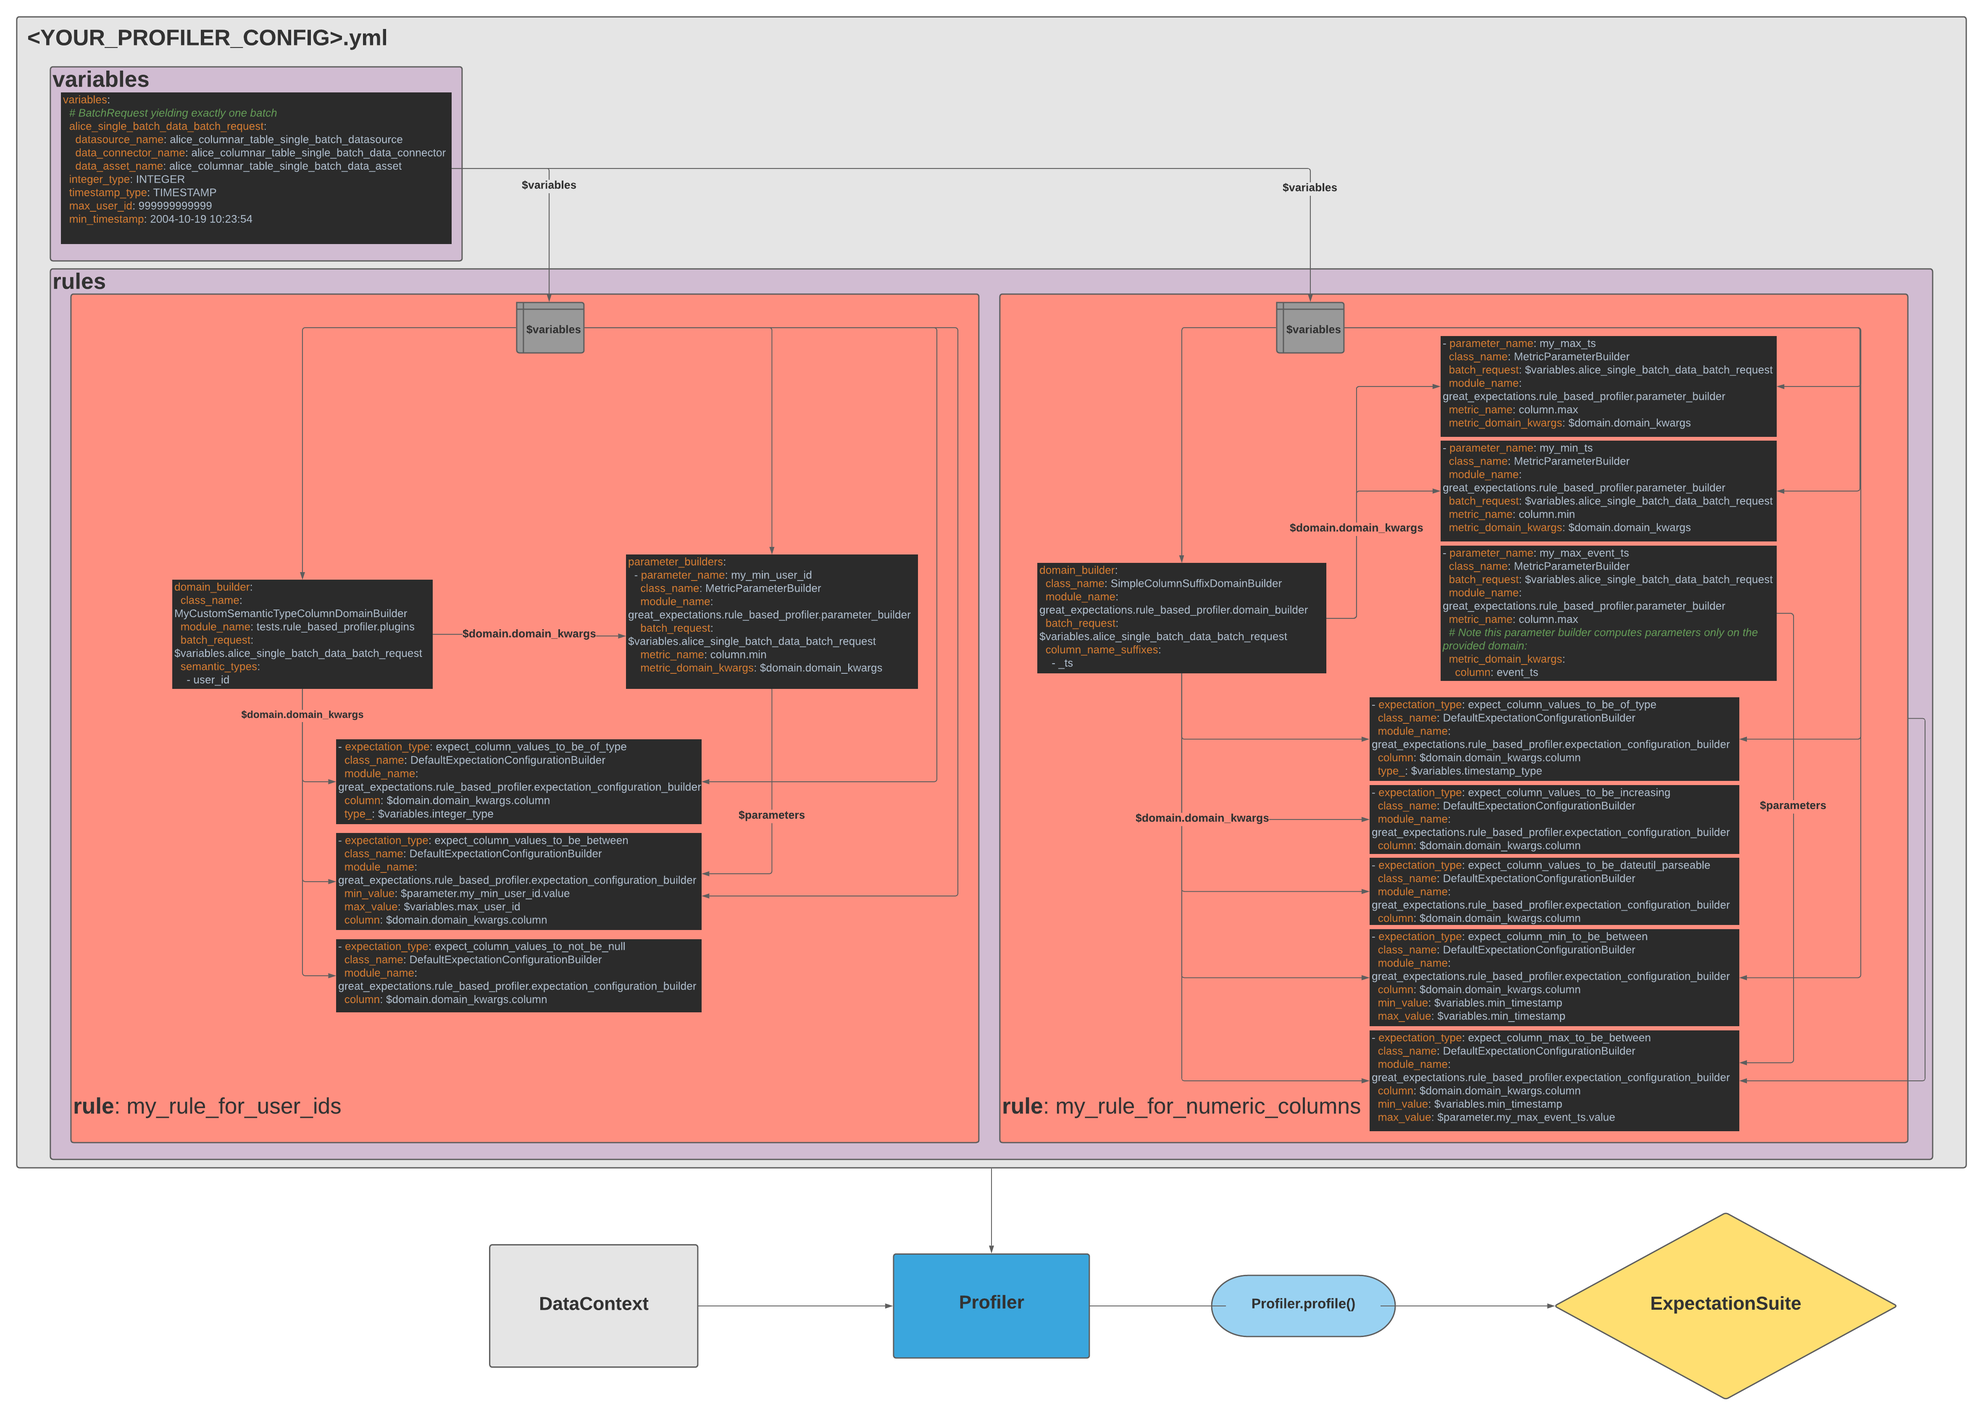
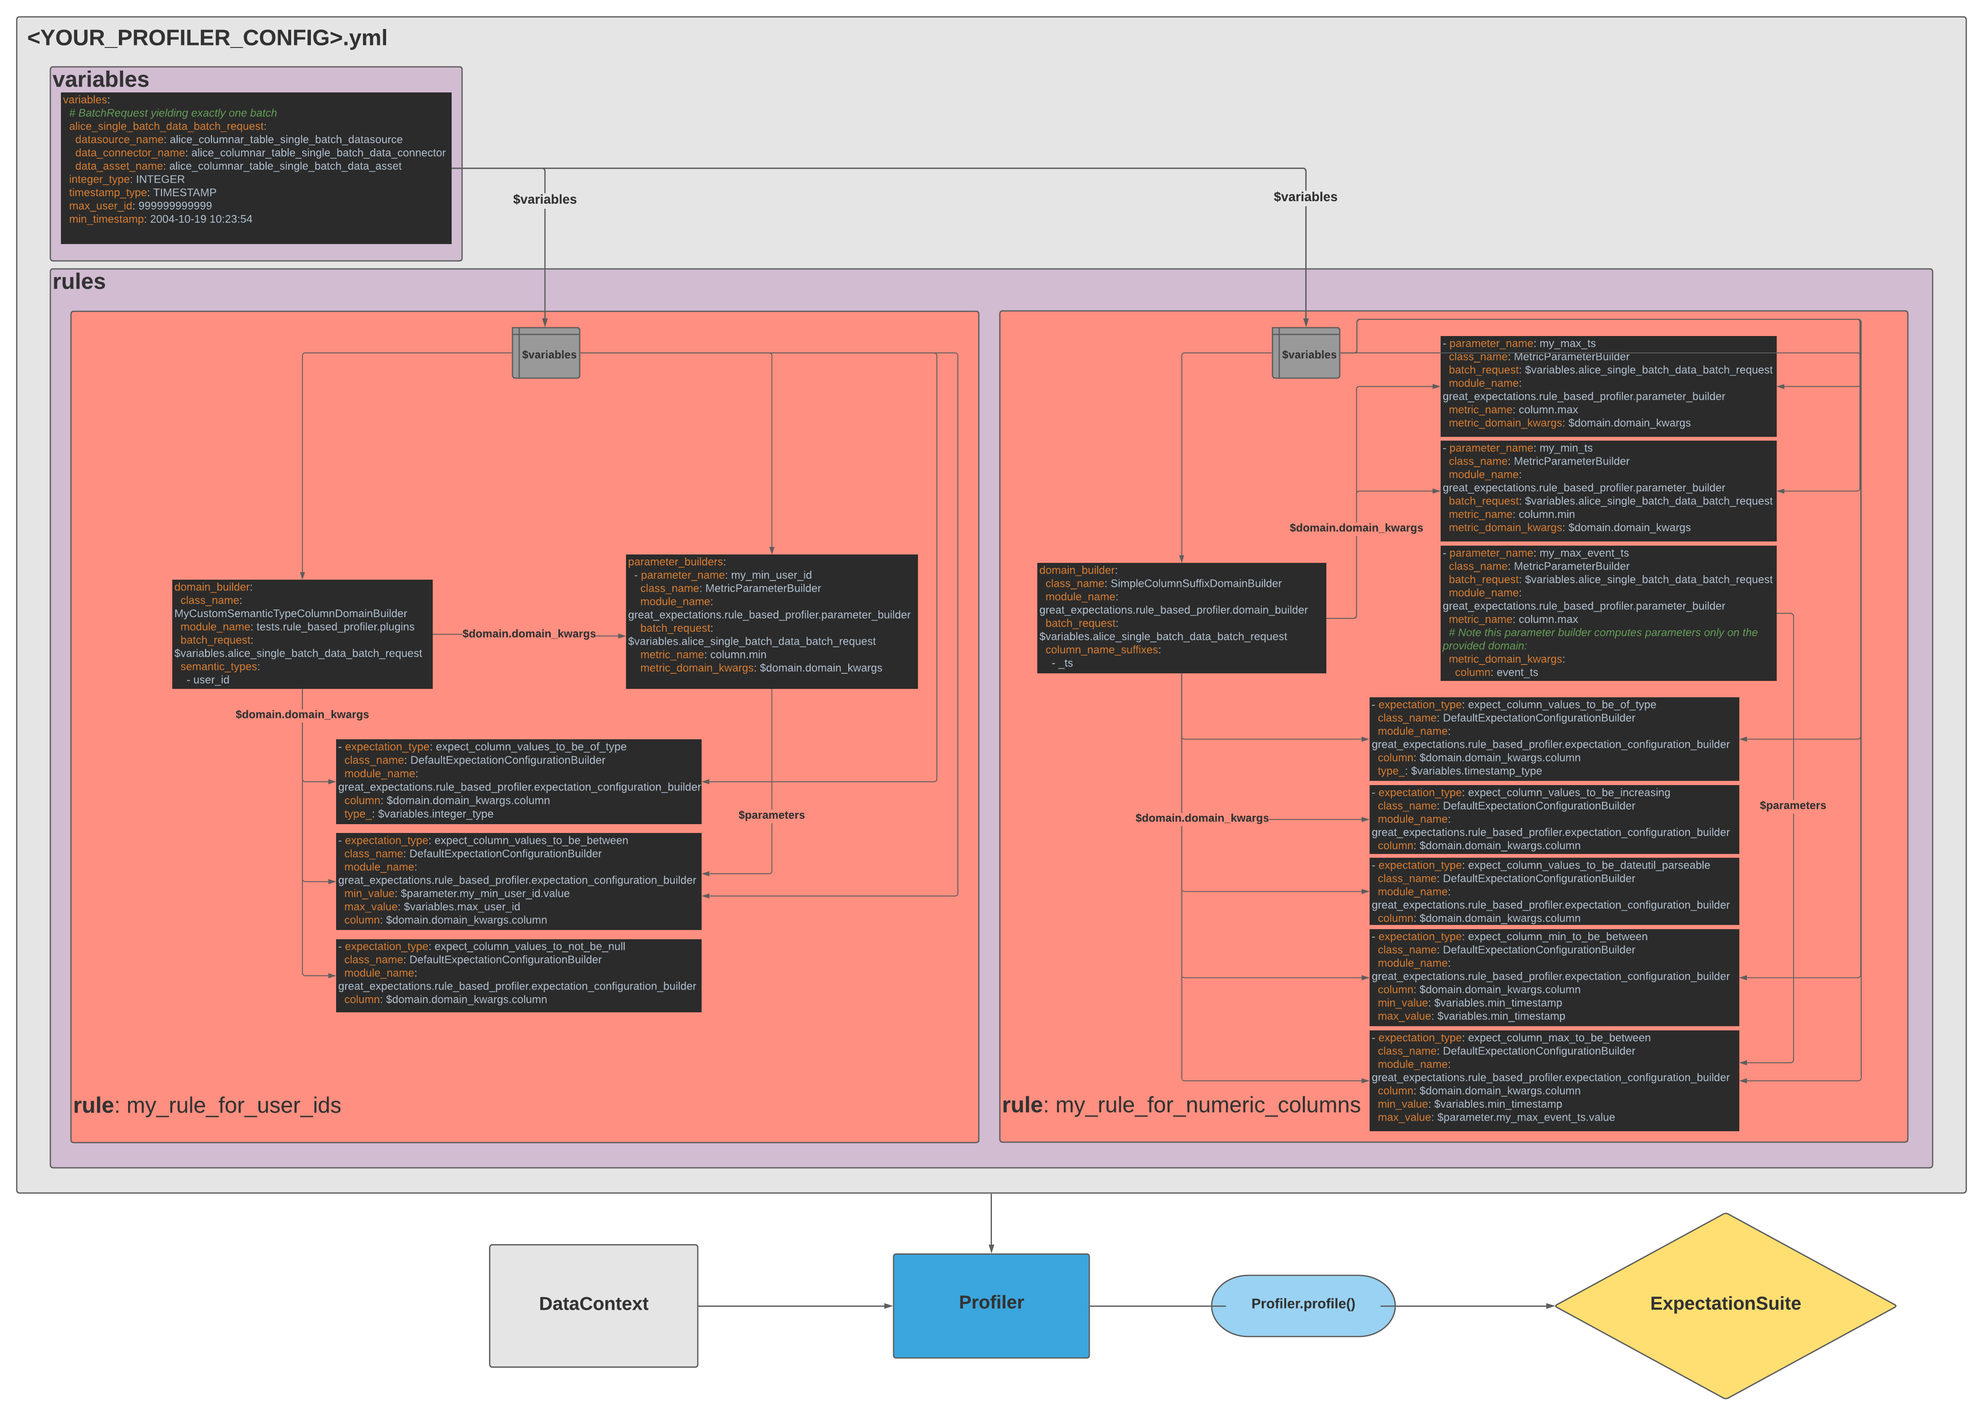
[DOCS] Update rule-based profiler docs (#2987)
* Updated diagram image

* Updated profiler docs

diff --git a/sidebars.js b/sidebars.js
@@ -302,8 +302,8 @@ module.exports = {
                 { type: 'doc', id: 'reference/expectations/distributional-expectations' },
                 { type: 'doc', id: 'reference/expectations/expectations' },
                 { type: 'doc', id: 'reference/expectations/implemented-expectations' },
-                { type: 'doc', id: 'reference/expectation-suite-operations' },
-               ]
+                { type: 'doc', id: 'reference/expectation-suite-operations' }
+              ]
             },
             { type: 'doc', id: 'reference/metrics' },
             { type: 'doc', id: 'reference/profilers' },
@@ -311,7 +311,7 @@ module.exports = {
             { type: 'doc', id: 'reference/expectations/standard-arguments' },
             { type: 'doc', id: 'reference/stores' },
             { type: 'doc', id: 'reference/dividing-data-assets-into-batches' },
-            { type: 'doc', id: 'reference/validation' },
+            { type: 'doc', id: 'reference/validation' }
           ]
         },
         {
@@ -327,7 +327,7 @@ module.exports = {
           collapsed: true,
           items: [
             { type: 'doc', id: 'reference/spare-parts' }
-           ]
+          ]
         },
         {
           type: 'category',
@@ -335,16 +335,16 @@ module.exports = {
           collapsed: true,
           items: [
             { type: 'doc', id: 'reference/api-reference' }
-           ]
-       }
-     ]
+          ]
+        }
+      ]
     },
     {
       type: 'category',
       label: 'Community Resources',
       collapsed: true,
       items: [
-	    { type: 'doc', id: 'community' }
+        { type: 'doc', id: 'community' }
       ]
     },
     {
@@ -352,7 +352,7 @@ module.exports = {
       label: 'Contributing',
       collapsed: true,
       items: [
-	    { type: 'doc', id: 'contributing/contributing' }
+        { type: 'doc', id: 'contributing/contributing' }
       ]
     },
     {
@@ -360,9 +360,8 @@ module.exports = {
       label: 'Changelog',
       collapsed: true,
       items: [
-	    { type: 'doc', id: 'changelog' }
-
+        { type: 'doc', id: 'changelog' }
       ]
-    },
+    }
   ]
 }

diff --git a/tests/integration/docusaurus/expectations/advanced/multi_batch_rule_based_profiler_example.py b/tests/integration/docusaurus/expectations/advanced/multi_batch_rule_based_profiler_example.py
@@ -6,9 +6,11 @@ from great_expectations.rule_based_profiler.profiler import Profiler
 profiler_config = """
 # This profiler is meant to be used on the NYC taxi data (yellow_trip_data_sample_<YEAR>-<MONTH>.csv)
 # located in tests/test_sets/taxi_yellow_trip_data_samples/
+
 variables:
   confidence_level: 9.75e-1
   mostly: 1.0
+
 rules:
   row_count_rule:
     domain_builder:

diff --git a/docs/reference/core-concepts.md b/docs/reference/core-concepts.md
@@ -110,72 +110,6 @@ permissions.
 In some cases **the thing that "makes a batch a batch" is the act of attending to it--for example by validating or
 profiling the data**. It's all about **your** Expectations.
 
-Great Expectations provides a mechanism to automatically generate expectations, using a feature called a **Profiler**. A Profiler builds an **Expectation Suite** from one or more **Data Assets**. It may also validates the data against the newly-generated Expectation Suite to return a **Validation Result**. There are several Profilers included with Great Expectations.
+Great Expectations provides a mechanism to automatically generate expectations, using a feature called a [**Profiler**](./profilers). A Profiler builds an **Expectation Suite** from one or more **Data Assets**. It may also validates the data against the newly-generated Expectation Suite to return a **Validation Result**. There are several Profilers included with Great Expectations.
 
 A Profiler makes it possible to quickly create a starting point for generating expectations about a Dataset. For example, during the `init` flow, Great Expectations currently uses the **UserConfigurableProfiler** to demonstrate important features of **Expectations** by creating and validating an Expectation Suite that has several different kinds of expectations built from a small sample of data. A Profiler is also critical to generating the Expectation Suites used during profiling.
-
-## Rule-Based Profilers
-
-**Rule-Based profilers** allow users to provide a highly configurable specification which is composed of **Rules** to use in order to build an **Expectation Suite** by profiling existing data.
-
-Imagine you have a table of Sales that comes in every month. You could profile last month's data, inspecting it in order to automatically create a number of expectations that you can use to validate next month's data.  
-
-A **Rule** in a rule-based profiler could say something like "Look at every column in my Sales table, and if that column is numeric, add an `expect_column_values_to_be_between` Expectation to my Expectation Suite, where the `min_value` for the Expectation is the minimum value for the column, and the `max_value` for the Expectation is the maximum value for the column."
-
-Each rule in a rule-based profiler has three types of components:
-
-1. **DomainBuilders**: A DomainBuilder will inspect some data that you provide to the Profiler, and compile a list of Domains for which you would like to build expectations
-1. **ParameterBuilders**: A ParameterBuilder will inspect some data that you provide to the Profiler, and compile a dictionary of Parameters that you can use when constructing your ExpectationConfigurations
-1. **ExpectationConfigurationBuilders**: An ExpectationConfigurationBuilder will take the Domains compiled by the DomainBuilder, and assemble ExpectationConfigurations using Parameters built by the ParameterBuilder
-
-In the above example, imagine your table of Sales has twenty columns, of which five are numeric:
-* Your **DomainBuilder** would inspect all twenty columns, and then yield a list of the five numeric columns
-* You would specify two **ParameterBuilders**: one which gets the min of a column, and one which gets a max. Your Profiler would loop over the Domain (or column) list built by the **DomainBuilder** and use the two ParameterBuilders to get the min and max for each column.
-* Then the Profiler loops over Domains built by the DomainBuilder and uses the **ExpectationConfigurationBuilders** to add a `expect_column_values_to_between` column for each of these Domains, where the `min_value` and `max_value` are the values that we got in the ParameterBuilders.
-
-In addition to Rules, a rule-based profiler enables you to specify **Variables**, which are global and can be used in any of the Rules. For instance, you may want to reference the same BatchRequest or the same tolerance in multiple Rules, and declaring these as Variables will enable you to do so. 
-
-#### Example Config:
-```yaml
-variables:
-  my_last_month_sales_batch_request: # We will use this BatchRequest in our DomainBuilder and both of our ParameterBuilders so we can pinpoint the data to Profile
-    datasource_name: my_sales_datasource
-    data_connector_name: monthly_sales
-    data_asset_name: sales_data
-    data_connector_query:
-      index: -1
-  mostly_default: 0.95 # We can set a variable here that we can reference as the `mostly` value for our expectations below
-rules:
-  my_rule_for_numeric_columns: # This is the name of our Rule
-    domain_builder:
-      batch_request: $variables.my_last_month_sales_batch_request # We use the BatchRequest that we specified in Variables above using this $ syntax
-      class_name: SemanticTypeColumnDomainBuilder # We use this class of DomainBuilder so we can specify the numeric type below
-      semantic_types:
-        - numeric
-    parameter_builders:
-      - parameter_name: my_column_min
-        class_name: MetricParameterBuilder
-        batch_request: $variables.my_last_month_sales_batch_request
-        metric_name: column.min # This is the metric we want to get with this ParameterBuilder
-        metric_domain_kwargs: $domain.domain_kwargs # This tells us to use the same Domain that is gotten by the DomainBuilder. We could also put a different column name in here to get a metric for that column instead.
-      - parameter_name: my_column_max
-        class_name: MetricParameterBuilder
-        batch_request: $variables.my_last_month_sales_batch_request
-        metric_name: column.max
-        metric_domain_kwargs: $domain.domain_kwargs
-    expectation_configuration_builders:
-      - expectation_type: expect_column_values_to_be_between # This is the name of the expectation that we would like to add to our suite
-        class_name: DefaultExpectationConfigurationBuilder
-        column: $domain.domain_kwargs.column
-        min_value: $parameter.my_column_min.value # We can reference the Parameters created by our ParameterBuilders using the same $ notation that we use to get Variables
-        max_value: $parameter.my_column_max.value
-        mostly: $variables.mostly_default
-```
-
-You can see another example config containing multiple rules here: [alice_user_workflow_verbose_profiler_config.yml](https://github.com/great-expectations/great_expectations/blob/develop/tests/rule_based_profiler/alice_user_workflow_verbose_profiler_config.yml)
-
-This config is used in the below diagram to provide a better sense of how the different parts of the Profiler config fit together. [You can see a larger version of this file here.](https://github.com/great-expectations/great_expectations/blob/develop/docs/guides/images/rule_based_profiler_public_interface_diagram.png)
-![Rule-Based Profiler Public Interface Diagram](../guides/images/rule_based_profiler_public_interface_diagram.png)
-
-### Next Steps
-- You can try out a tutorial that walks you through the set-up of a Rule-Based Profiler here: [How to create a new Expectation Suite using Rule Based Profilers](../guides/expectations/advanced/how-to-create-a-new-expectation-suite-using-rule-based-profilers)

diff --git a/docs/reference/profilers.md b/docs/reference/profilers.md
@@ -19,3 +19,69 @@ convention that all columns **named** "id" are primary keys, whereas all columns
 **suffix** "_id" are foreign keys. In that case, when the team using Great Expectations first encounters a new dataset
 that followed the convention, a Profiler could use that knowledge to add an expect_column_values_to_be_unique
 Expectation to the "id" column (but not, for example an "address_id" column).
+
+## Rule-Based Profilers
+
+**Rule-Based profilers** allow users to provide a highly configurable specification which is composed of **Rules** to use in order to build an **Expectation Suite** by profiling existing data.
+
+Imagine you have a table of Sales that comes in every month. You could profile last month's data, inspecting it in order to automatically create a number of expectations that you can use to validate next month's data.  
+
+A **Rule** in a rule-based profiler could say something like "Look at every column in my Sales table, and if that column is numeric, add an `expect_column_values_to_be_between` Expectation to my Expectation Suite, where the `min_value` for the Expectation is the minimum value for the column, and the `max_value` for the Expectation is the maximum value for the column."
+
+Each rule in a rule-based profiler has three types of components:
+
+1. **DomainBuilders**: A DomainBuilder will inspect some data that you provide to the Profiler, and compile a list of Domains for which you would like to build expectations
+1. **ParameterBuilders**: A ParameterBuilder will inspect some data that you provide to the Profiler, and compile a dictionary of Parameters that you can use when constructing your ExpectationConfigurations
+1. **ExpectationConfigurationBuilders**: An ExpectationConfigurationBuilder will take the Domains compiled by the DomainBuilder, and assemble ExpectationConfigurations using Parameters built by the ParameterBuilder
+
+In the above example, imagine your table of Sales has twenty columns, of which five are numeric:
+* Your **DomainBuilder** would inspect all twenty columns, and then yield a list of the five numeric columns
+* You would specify two **ParameterBuilders**: one which gets the min of a column, and one which gets a max. Your Profiler would loop over the Domain (or column) list built by the **DomainBuilder** and use the two ParameterBuilders to get the min and max for each column.
+* Then the Profiler loops over Domains built by the DomainBuilder and uses the **ExpectationConfigurationBuilders** to add a `expect_column_values_to_between` column for each of these Domains, where the `min_value` and `max_value` are the values that we got in the ParameterBuilders.
+
+In addition to Rules, a rule-based profiler enables you to specify **Variables**, which are global and can be used in any of the Rules. For instance, you may want to reference the same BatchRequest or the same tolerance in multiple Rules, and declaring these as Variables will enable you to do so. 
+
+#### Example Config:
+```yaml
+variables:
+  my_last_month_sales_batch_request: # We will use this BatchRequest in our DomainBuilder and both of our ParameterBuilders so we can pinpoint the data to Profile
+    datasource_name: my_sales_datasource
+    data_connector_name: monthly_sales
+    data_asset_name: sales_data
+    data_connector_query:
+      index: -1
+  mostly_default: 0.95 # We can set a variable here that we can reference as the `mostly` value for our expectations below
+rules:
+  my_rule_for_numeric_columns: # This is the name of our Rule
+    domain_builder:
+      batch_request: $variables.my_last_month_sales_batch_request # We use the BatchRequest that we specified in Variables above using this $ syntax
+      class_name: SemanticTypeColumnDomainBuilder # We use this class of DomainBuilder so we can specify the numeric type below
+      semantic_types:
+        - numeric
+    parameter_builders:
+      - parameter_name: my_column_min
+        class_name: MetricParameterBuilder
+        batch_request: $variables.my_last_month_sales_batch_request
+        metric_name: column.min # This is the metric we want to get with this ParameterBuilder
+        metric_domain_kwargs: $domain.domain_kwargs # This tells us to use the same Domain that is gotten by the DomainBuilder. We could also put a different column name in here to get a metric for that column instead.
+      - parameter_name: my_column_max
+        class_name: MetricParameterBuilder
+        batch_request: $variables.my_last_month_sales_batch_request
+        metric_name: column.max
+        metric_domain_kwargs: $domain.domain_kwargs
+    expectation_configuration_builders:
+      - expectation_type: expect_column_values_to_be_between # This is the name of the expectation that we would like to add to our suite
+        class_name: DefaultExpectationConfigurationBuilder
+        column: $domain.domain_kwargs.column
+        min_value: $parameter.my_column_min.value # We can reference the Parameters created by our ParameterBuilders using the same $ notation that we use to get Variables
+        max_value: $parameter.my_column_max.value
+        mostly: $variables.mostly_default
+```
+
+You can see another example config containing multiple rules here: [alice_user_workflow_verbose_profiler_config.yml](https://github.com/great-expectations/great_expectations/blob/develop/tests/rule_based_profiler/alice_user_workflow_verbose_profiler_config.yml)
+
+This config is used in the below diagram to provide a better sense of how the different parts of the Profiler config fit together. [You can see a larger version of this file here.](https://github.com/great-expectations/great_expectations/blob/develop/docs/guides/images/rule_based_profiler_public_interface_diagram.png)
+![Rule-Based Profiler Public Interface Diagram](../guides/images/rule_based_profiler_public_interface_diagram.png)
+
+### Next Steps
+- You can try out a tutorial that walks you through the set-up of a Rule-Based Profiler here: [How to create a new Expectation Suite using Rule Based Profilers](../guides/expectations/advanced/how-to-create-a-new-expectation-suite-using-rule-based-profilers)

diff --git a/docs/guides/expectations/advanced/how-to-create-a-new-expectation-suite-using-rule-based-profilers.md b/docs/guides/expectations/advanced/how-to-create-a-new-expectation-suite-using-rule-based-profilers.md
@@ -9,7 +9,7 @@ In this tutorial, you will develop hands-on experience with configuring a Rule-B
 
 - Have a basic understanding of [Metrics in Great Expectations](https://docs.greatexpectations.io/en/latest/reference/core_concepts/metrics.html)
 - Have a basic understanding of [Expectation Configurations in Great Expectations](https://docs.greatexpectations.io/en/latest/reference/core_concepts/expectations/expectations.html#expectation-concepts-domain-and-success-keys)
-- Have read the sections in Core Concepts on [Profiling](../../../reference/core-concepts#profiling) and [Rule-Based Profilers](../../../reference/core-concepts#rule-based-profilers)
+- Have read the sections in Core Concepts on [Profilers](../../../reference/profilers) and [Rule-Based Profilers](../../../reference/profilers#rule-based-profilers)
 
 </Prerequisites>
 
